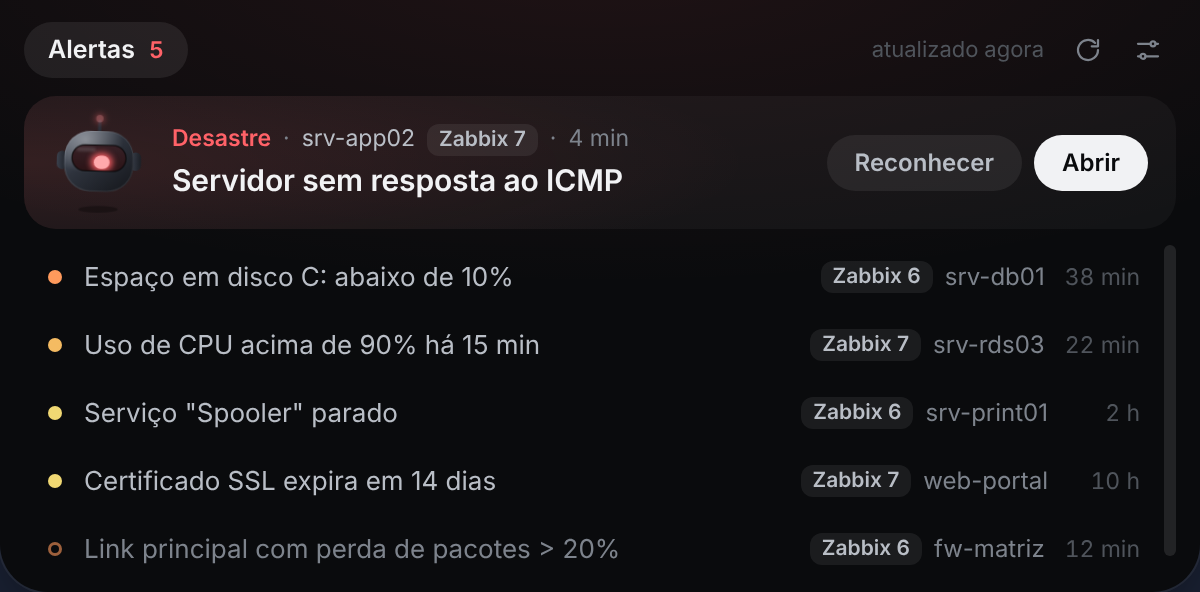
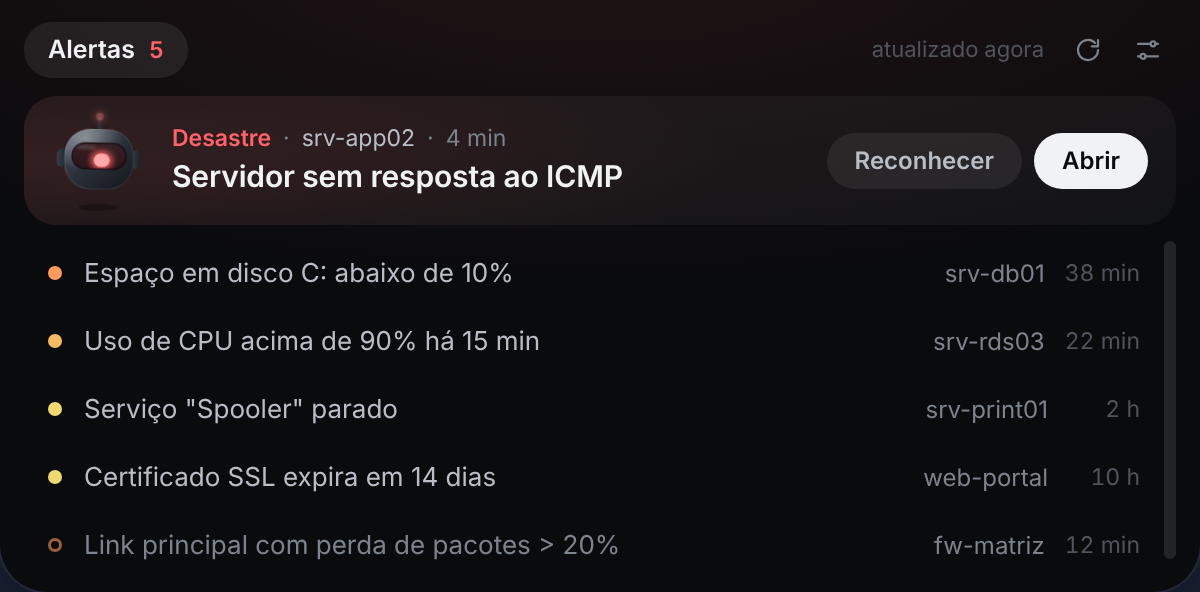
Site mais enxuto e sem contexto de uma empresa específica
- Remove a seção de vários Zabbix, a faixa da edição para equipes, GLPI e menções a NOC
- Demonstração e capturas sem etiquetas de servidor
- Captura da barra aberta sem as faixas laterais
- README sem o exemplo específico e sem a menção ao GLPI

diff --git a/site/index.html b/site/index.html
@@ -20,7 +20,6 @@
       <ul>
         <li><a href="#como-funciona">Como funciona</a></li>
         <li><a href="plugins/">Plugins</a></li>
-        <li><a href="#equipes">Para equipes</a></li>
         <li><a href="https://github.com/victorhugoantonio1/topwatch">GitHub</a></li>
       </ul>
     </header>
@@ -29,7 +28,7 @@
       <div class="wrap hero">
         <h1>Alertas do Zabbix no topo da tela, sem abrir aba nenhuma.</h1>
         <div class="hero-side">
-          <p class="lead">Uma barra discreta para quem trabalha em NOC e suporte. Você continua no que está fazendo; quando um alerta grave aparece, a luz muda de cor e a barra mostra o host com problema.</p>
+          <p class="lead">Uma barra discreta no topo da tela. Você continua no que está fazendo; quando um alerta grave aparece, a luz muda de cor e a barra mostra o host com problema.</p>
           <div class="actions">
             <a class="btn primary" href="https://github.com/victorhugoantonio1/topwatch/releases/latest">
               <svg viewBox="0 0 24 24" fill="none" stroke="currentColor" stroke-width="2" stroke-linecap="round" stroke-linejoin="round" aria-hidden="true"><path d="M12 4v11m0 0-4.5-4.5M12 15l4.5-4.5M5 20h14" /></svg>
@@ -94,26 +93,11 @@ joao.silva       True
               <p>Em Alta ou Desastre, a luz fica vermelha e a pílula mostra direto o host com problema. O Windows também notifica.</p>
             </li>
             <li class="flow-c">
-              <figure class="shot"><img src="assets/shots/panel.png" width="600" height="296" alt="Barra aberta: Desastre em destaque com os botões Reconhecer e Abrir, e a lista dos outros alertas com a etiqueta do servidor Zabbix" /></figure>
+              <figure class="shot"><img src="assets/shots/panel.png" width="600" height="296" alt="Barra aberta: Desastre em destaque com os botões Reconhecer e Abrir, e a lista dos outros alertas" /></figure>
               <h3>Passou o mouse, abriu</h3>
-              <p>O alerta mais grave vem em destaque, com Reconhecer e Abrir. O resto fica numa lista curta, cada um com o servidor de onde veio.</p>
+              <p>O alerta mais grave vem em destaque, com Reconhecer e Abrir. O resto fica numa lista curta, do mais grave para o menos grave.</p>
             </li>
           </ol>
-        </div>
-      </section>
-
-      <section>
-        <div class="wrap split">
-          <div>
-            <h2>Vários Zabbix numa lista só</h2>
-            <p class="intro">Cadastre quantos servidores precisar, por exemplo um 6.0 com clientes antigos e um 7.0. A barra junta os alertas e o Reconhecer vai para o servidor certo.</p>
-            <ul class="facts">
-              <li>A versão é detectada sozinha. Não precisa saber se o token vai no cabeçalho ou no corpo.</li>
-              <li>Testar conexão explica o que falta: token sem permissão nos hosts, severidade mínima alta demais.</li>
-              <li>Servidor fora do ar não some com os alertas dos outros.</li>
-            </ul>
-          </div>
-          <figure class="shot tall"><img src="assets/shots/settings-zabbix.png" width="521" height="440" alt="Configurações do TopWatch com o servidor Zabbix 7 conectado" loading="lazy" /></figure>
         </div>
       </section>
 
@@ -134,7 +118,7 @@ joao.silva       True
           <dl class="specs">
             <div>
               <dt>Leve no servidor</dt>
-              <dd>Uma consulta por servidor a cada 60 segundos, com os hosts em cache. Menos que um dashboard do Zabbix aberto.</dd>
+              <dd>Uma consulta a cada 60 segundos, com os hosts em cache. Menos que um dashboard do Zabbix aberto.</dd>
             </div>
             <div>
               <dt>Tokens protegidos</dt>
@@ -152,33 +136,13 @@ joao.silva       True
         </div>
       </section>
 
-      <section id="equipes" class="band">
-        <div class="wrap split">
-          <div>
-            <h2>Para o NOC inteiro</h2>
-            <p class="intro">A edição para equipes junta o TopWatch aos outros sistemas do time e vem com quem cuida dele.</p>
-          </div>
-          <div>
-            <ul class="offer">
-              <li><b>Plugin GLPI</b> Os chamados não solucionados numa aba própria, só os seus se você quiser.</li>
-              <li><b>Implantação</b> Instalação e configuração nas estações do NOC, com os seus servidores.</li>
-              <li><b>Suporte</b> Ajustes quando o Zabbix ou o GLPI atualizarem, e correções sem esperar.</li>
-            </ul>
-            <div class="actions left">
-              <a class="btn primary" href="https://www.linkedin.com/in/vituhzzz/">Falar sobre a edição para equipes</a>
-              <a class="btn" href="plugins/">Ver os plugins</a>
-            </div>
-          </div>
-        </div>
-      </section>
-
       <section id="perguntas">
         <div class="wrap narrow">
           <h2>Perguntas frequentes</h2>
           <div class="faq">
             <details>
               <summary>É grátis mesmo?</summary>
-              <p>Sim. O TopWatch é software livre, sob a licença AGPL-3.0: pode usar em casa e na empresa. A edição para equipes, com plugins como o GLPI, implantação e suporte, é paga.</p>
+              <p>Sim. O TopWatch é software livre, sob a licença AGPL-3.0: pode usar em casa e na empresa.</p>
             </details>
             <details>
               <summary>Funciona com a minha versão do Zabbix?</summary>
@@ -189,8 +153,8 @@ joao.silva       True
               <p>Leitura nos grupos de hosts que você quer ver. Para o botão Reconhecer funcionar, o usuário precisa de permissão de escrita nesses hosts. O ideal é um usuário dedicado.</p>
             </details>
             <details>
-              <summary>Vai pesar no nosso Zabbix?</summary>
-              <p>Não. São uma consulta de problemas por servidor a cada 60 segundos (mínimo de 30) e uma busca de hosts só quando aparece um trigger novo. Com o time inteiro usando, ainda é pouco para um Zabbix de produção.</p>
+              <summary>Vai pesar no Zabbix?</summary>
+              <p>Não. É uma consulta de problemas a cada 60 segundos (mínimo de 30) e uma busca de hosts só quando aparece um trigger novo.</p>
             </details>
             <details>
               <summary>O Windows ou o antivírus bloqueou. E agora?</summary>

diff --git a/site/assets/site.css b/site/assets/site.css
@@ -468,7 +468,7 @@ h3 {
 .flow .shot {
   display: grid;
   place-items: start center;
-  height: 150px;
+  padding-bottom: 28px;
 }
 
 .flow .shot img {
@@ -486,9 +486,9 @@ h3 {
 
 .flow-c .shot {
   grid-row: span 2;
-  height: auto;
-  padding: 0 32px;
+  padding: 0;
   display: block;
+  background: #0a0b0d;
 }
 
 .flow-c .shot img {
@@ -513,30 +513,8 @@ h3 {
   align-items: center;
 }
 
-.shot.tall {
-  padding: 28px 28px 0;
-  background: #14161a;
-}
-
-.shot.tall img {
-  border-radius: 10px 10px 0 0;
-}
-
 .shot.gif {
   background: #0d0f14;
-}
-
-.facts {
-  margin-top: 26px;
-  list-style: none;
-  display: grid;
-  gap: 14px;
-}
-
-.facts li {
-  padding-left: 18px;
-  border-left: 2px solid var(--rule);
-  color: var(--soft);
 }
 
 .specs {
@@ -559,39 +537,6 @@ h3 {
   margin-top: 8px;
   color: var(--soft);
   font-size: 15.5px;
-}
-
-/* faixa para equipes */
-.band {
-  margin-top: 112px;
-  padding: 88px 0;
-  background: var(--deep);
-  border-block: 1px solid var(--rule);
-}
-
-.band .split {
-  align-items: start;
-}
-
-.offer {
-  list-style: none;
-  display: grid;
-  gap: 18px;
-}
-
-.offer li {
-  color: var(--soft);
-}
-
-.offer b {
-  display: block;
-  color: var(--ink);
-  font: 600 18px/1.3 var(--display);
-  margin-bottom: 2px;
-}
-
-.actions.left {
-  margin-top: 30px;
 }
 
 /* perguntas */
@@ -811,11 +756,6 @@ footer nav {
   color: var(--mute);
 }
 
-.plugin .tab-preview {
-  margin-top: 16px;
-  max-width: 520px;
-}
-
 .note {
   margin-top: 26px;
   color: var(--soft);
@@ -825,8 +765,7 @@ footer nav {
 
 @media (max-width: 900px) {
   .hero,
-  .split,
-  .band .split {
+  .split {
     grid-template-columns: 1fr;
     gap: 32px;
   }
@@ -842,7 +781,6 @@ footer nav {
   .flow-c .shot {
     grid-row: auto;
     margin-bottom: 18px;
-    padding: 0 12px;
   }
   .nav ul li:nth-child(3) {
     display: none;
@@ -861,10 +799,6 @@ footer nav {
   }
   section {
     padding-top: 80px;
-  }
-  .band {
-    margin-top: 80px;
-    padding: 64px 0;
   }
   .desk {
     height: 380px;
@@ -886,9 +820,6 @@ footer nav {
   .specs,
   .steps {
     grid-template-columns: 1fr;
-  }
-  .flow .shot {
-    height: 110px;
   }
   .plugin {
     grid-template-columns: 44px minmax(0, 1fr);

diff --git a/site/plugins/index.html b/site/plugins/index.html
@@ -17,7 +17,6 @@
       <ul>
         <li><a href="../#como-funciona">Como funciona</a></li>
         <li><a href="./" aria-current="page">Plugins</a></li>
-        <li><a href="../#equipes">Para equipes</a></li>
         <li><a href="https://github.com/victorhugoantonio1/topwatch">GitHub</a></li>
       </ul>
     </header>
@@ -25,23 +24,12 @@
     <main>
       <div class="wrap page-head">
         <h1>Plugins</h1>
-        <p class="lead">O TopWatch já vem com o Zabbix. Cada plugin liga a barra a outro sistema: ganha uma aba própria e uma seção nas configurações, e é instalado sem reiniciar.</p>
+        <p class="lead">O TopWatch já vem com o Zabbix. Plugins ligam a barra a outras ferramentas de monitoramento: cada um ganha uma seção nas configurações e é instalado sem reiniciar.</p>
       </div>
 
       <section style="padding-top: 0">
         <div class="wrap">
           <ul class="plugins">
-            <li class="plugin" id="glpi">
-              <span class="mono" aria-hidden="true">G</span>
-              <h3>GLPI</h3>
-              <p>Aba Chamados com os chamados não solucionados, do mais urgente para o menos. Mostra só os atribuídos a você, se preferir, e abre o chamado com um clique.</p>
-              <p class="meta">GLPI 9.5, 10 e 11, pela API REST. Entra em todas as entidades com subentidades e funciona com token de usuário de serviço.</p>
-              <figure class="shot tab-preview"><img src="../assets/shots/glpi-tab.png" width="600" height="296" alt="Aba Chamados do plugin GLPI aberta na barra, com o chamado mais urgente em destaque e o botão Abrir chamado" loading="lazy" /></figure>
-              <div class="side">
-                <span class="badge ready">Disponível na edição para equipes</span>
-                <a class="btn" href="https://www.linkedin.com/in/vituhzzz/">Pedir o plugin</a>
-              </div>
-            </li>
             <li class="plugin later" id="alertmanager">
               <span class="mono" aria-hidden="true">Pr</span>
               <h3>Prometheus Alertmanager e Grafana</h3>

diff --git a/site/demo/shim.js b/site/demo/shim.js
@@ -5,11 +5,11 @@
   const SEV = ['Não classificado', 'Informação', 'Atenção', 'Média', 'Alta', 'Desastre'];
   const MIN = 60 * 1000;
   const PROBLEMS = [
-    { title: 'Servidor sem resposta ao ICMP', host: 'srv-app02', severity: 5, ago: 4, srv: 'Zabbix 7' },
-    { title: 'Espaço em disco C: abaixo de 10%', host: 'srv-db01', severity: 4, ago: 38, srv: 'Zabbix 6' },
-    { title: 'Uso de CPU acima de 90% há 15 min', host: 'srv-rds03', severity: 3, ago: 22, srv: 'Zabbix 7' },
-    { title: 'Serviço "Spooler" parado', host: 'srv-print01', severity: 2, ago: 95, srv: 'Zabbix 6' },
-    { title: 'Certificado SSL expira em 14 dias', host: 'web-portal', severity: 2, ago: 600, srv: 'Zabbix 7' },
+    { title: 'Servidor sem resposta ao ICMP', host: 'srv-app02', severity: 5, ago: 4 },
+    { title: 'Espaço em disco C: abaixo de 10%', host: 'srv-db01', severity: 4, ago: 38 },
+    { title: 'Uso de CPU acima de 90% há 15 min', host: 'srv-rds03', severity: 3, ago: 22 },
+    { title: 'Serviço "Spooler" parado', host: 'srv-print01', severity: 2, ago: 95 },
+    { title: 'Certificado SSL expira em 14 dias', host: 'web-portal', severity: 2, ago: 600 },
   ];
   // cada cenário é um filtro sobre os problemas de exemplo
   const SCENARIOS = {
@@ -32,8 +32,8 @@
       .map((p) => ({
         id: `demo-${p.i}`,
         eventid: `demo-${p.i}`,
-        serverId: p.srv,
-        serverName: p.srv,
+        serverId: 'zabbix',
+        serverName: 'Zabbix',
         source: 'zabbix',
         title: p.title,
         severity: p.severity,
@@ -46,7 +46,7 @@
     return {
       demo: false,
       updatedAt: now,
-      zabbix: { enabled: true, items, error: null, multi: true },
+      zabbix: { enabled: true, items, error: null, multi: false },
       plugins: [],
       ui: { display: 'both', highlight: true, mascot: true },
     };
